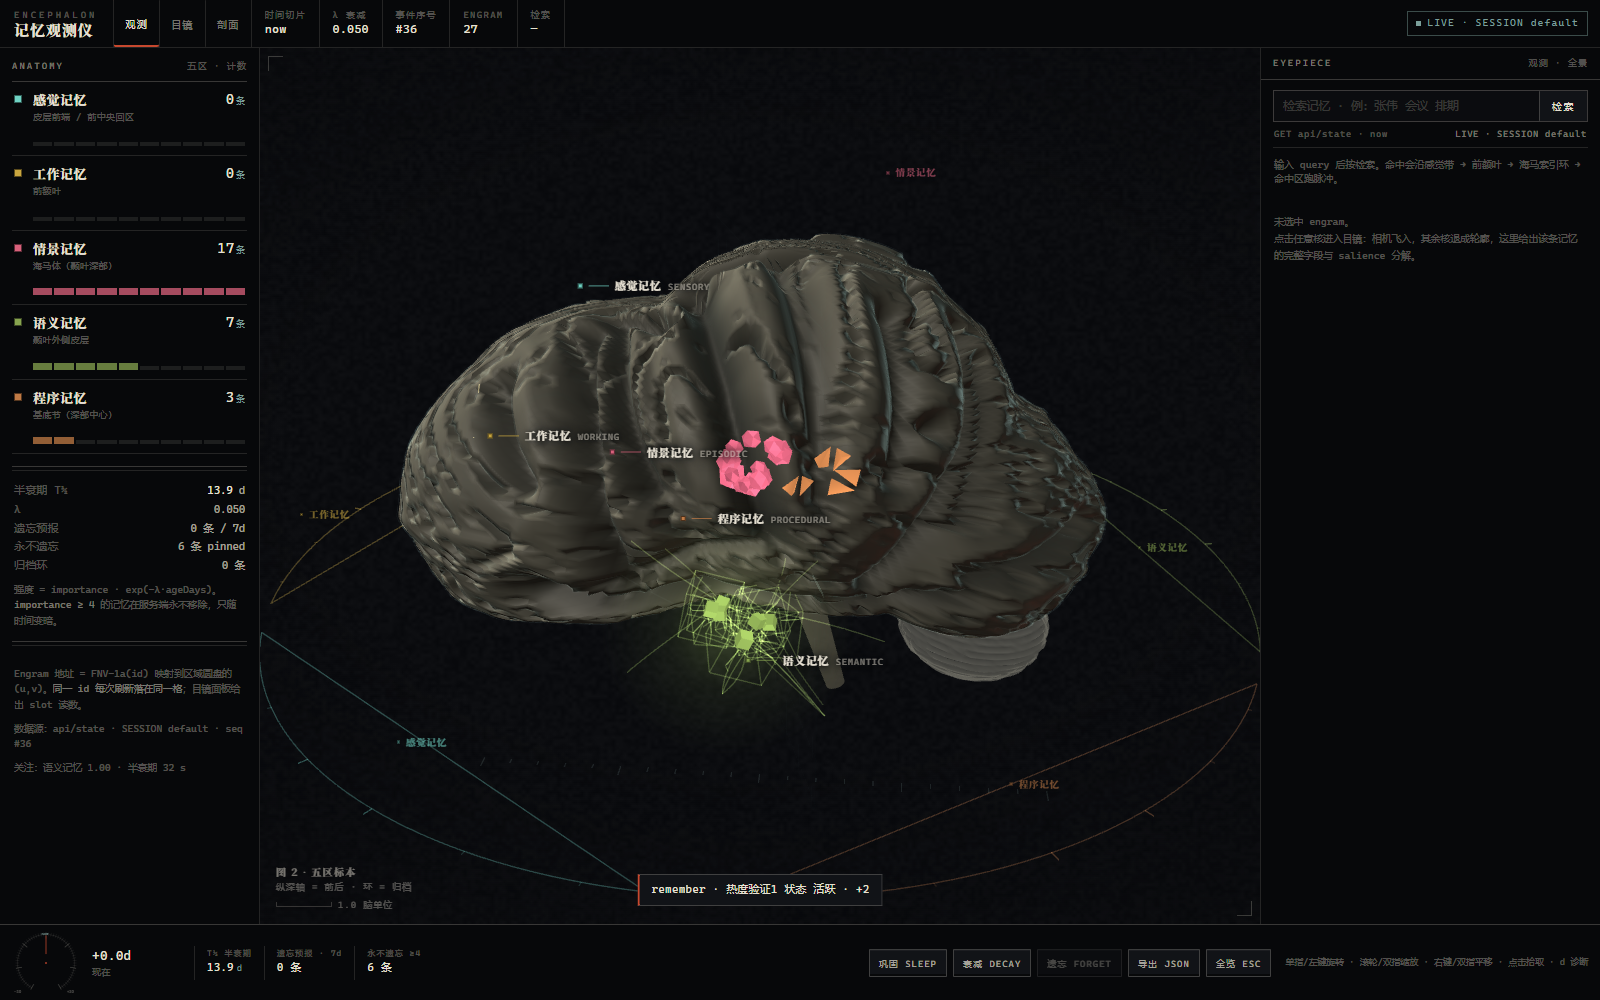
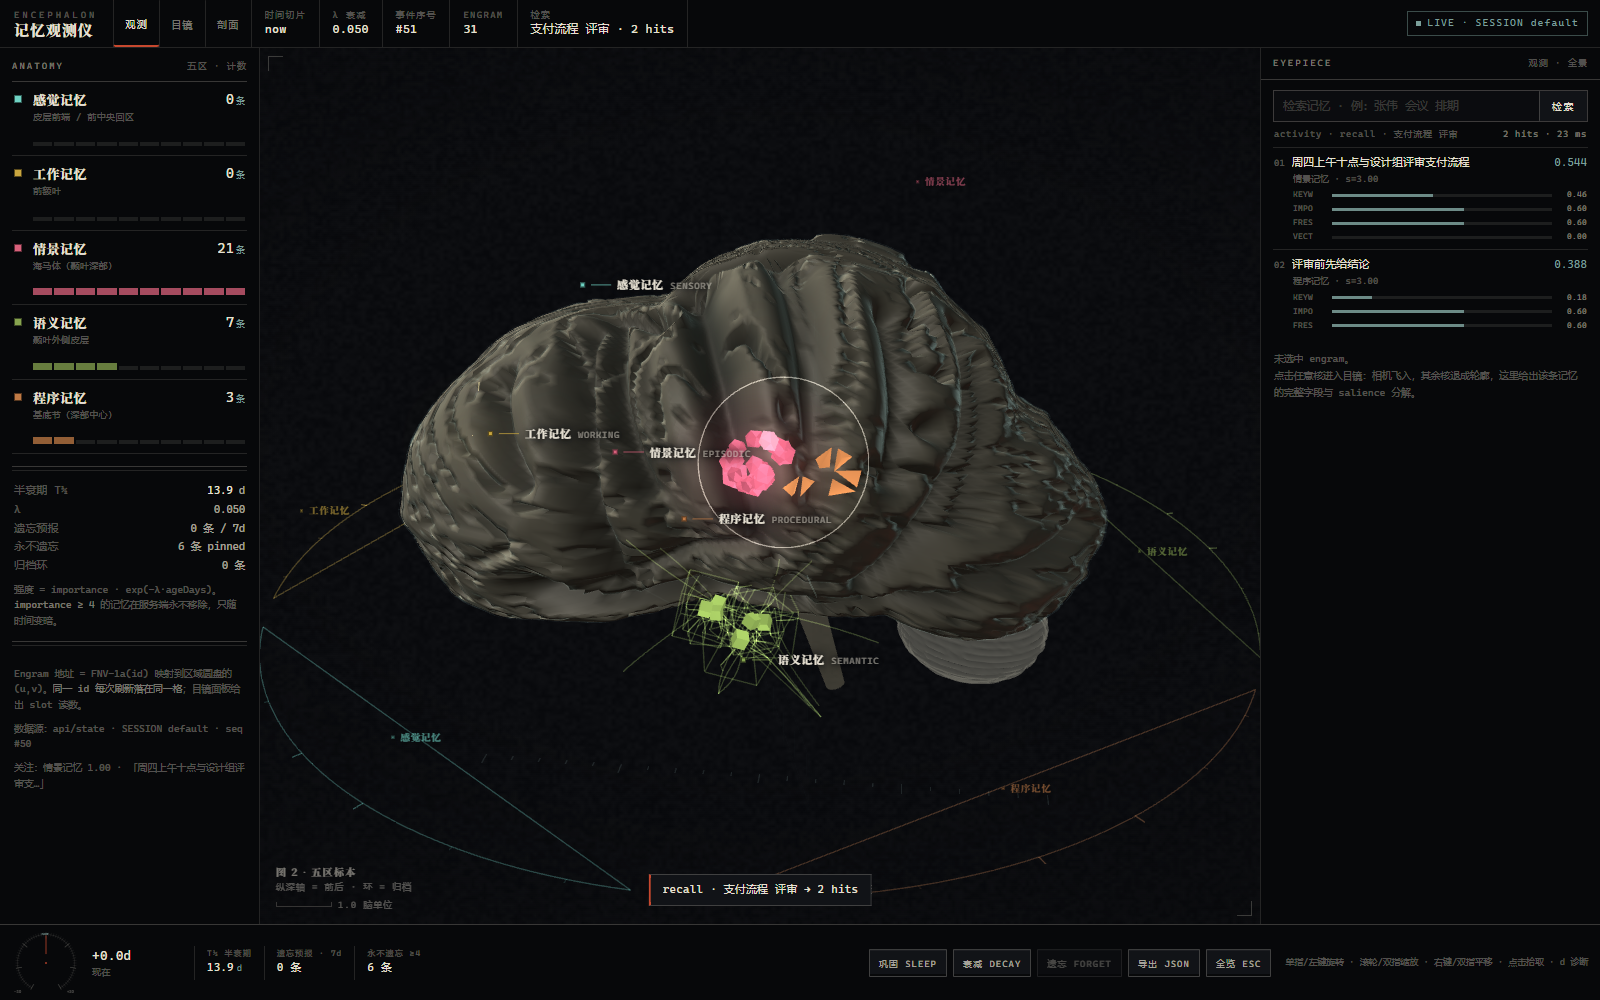
feat(3d): 层内热度（热度落到单条 engram，亮的是那一簇）

diff --git a/dist/deepseek-brain-3d.html b/dist/deepseek-brain-3d.html
@@ -1862,7 +1862,8 @@ globalThis.THREE=Object.freeze({ACESFilmicToneMapping:nt,AddEquation:M,AddOperat
     N.mesh.setMatrixAt(rec.inst, _m4);
     var c = rec.tintColor;
     N.tint.setXYZ(rec.inst, c.r, c.g, c.b);
-    var heatK = 1 + 0.55 * (APP.heat && rec.layer in APP.heat ? heatNorm(rec.layer) : 0);
+    var heatK = 1 + 0.30 * (APP.heat && rec.layer in APP.heat ? heatNorm(rec.layer) : 0) +
+      0.85 * heatKeyNorm(rec.id);
     N.glow.setX(rec.inst, clamp((0.08 + 0.98 * rec.salience) * heatK, 0, 1.6));
     N.hi.setX(rec.inst, hi == null ? (APP.selected === rec.id ? 0.85 : 0) : hi);
     N.dim.setX(rec.inst, dim == null ? ((APP.selected && APP.selected !== rec.id) ? 1 : 0) : dim);
@@ -3320,6 +3321,36 @@ globalThis.THREE=Object.freeze({ACESFilmicToneMapping:nt,AddEquation:M,AddOperat
     return out;
   })();
 
+  /* 层内热度：热度落到具体 engram 上，亮的是一簇而不是整层。 */
+  APP.heatK = {};
+  var heatKMax = 0.001;
+  function heatAddKey(key, amount) {
+    if (!key) return;
+    APP.heatK[key] = clamp((APP.heatK[key] || 0) + amount, 0, 4);
+  }
+  function heatKeyNorm(key) {
+    if (!key) return 0;
+    return clamp((APP.heatK[key] || 0) / heatKMax, 0, 1);
+  }
+  function heatHotKey() {
+    var best = null, bv = 0;
+    Object.keys(APP.heatK).forEach(function (k) {
+      if (APP.heatK[k] > bv) { bv = APP.heatK[k]; best = k; }
+    });
+    return best;
+  }
+  function heatSpreadToText(topic) {
+    if (!topic) return;
+    var needle = String(topic).trim();
+    if (needle.length < 2) return;
+    var touched = 0;
+    allEngrams(APP.model).forEach(function (rec) {
+      if (touched >= 6) return;
+      var blob = (rec.title || '') + ' ' + (rec.sub || '') + ' ' + (rec.detail || '');
+      if (blob.indexOf(needle) >= 0) { heatAddKey(rec.id, 0.42); touched++; }
+    });
+  }
+
   var heatNote = null;
   function renderHeatNote() {
     if (!heatNote) {
@@ -3330,13 +3361,26 @@ globalThis.THREE=Object.freeze({ACESFilmicToneMapping:nt,AddEquation:M,AddOperat
       if (host && host.parentNode) host.parentNode.appendChild(heatNote);
     }
     var best = LAYERS.slice().sort(function (a, b) { return APP.heat[b] - APP.heat[a]; })[0];
-    heatNote.textContent = APP.heat[best] > 0.08
-      ? ('关注：' + REGION[best].label + ' ' + heatNorm(best).toFixed(2) + ' · 半衰期 32 s')
-      : '关注：静默，热度已归零。';
+    if (!(APP.heat[best] > 0.08)) {
+      heatNote.textContent = '关注：静默，热度已归零。';
+      return;
+    }
+    var hotId = heatHotKey();
+    var hot = hotId && APP.model && APP.model.byId ? APP.model.byId[hotId] : null;
+    heatNote.textContent = '关注：' + REGION[best].label + ' ' + heatNorm(best).toFixed(2) +
+      (hot ? ' · 「' + truncate(hot.title || '', 14) + '」' : '');
   }
 
   function updateHeat(dt) {
     heatDecay(dt);
+    var kk = Math.pow(0.5, (dt * 1000) / HEAT_HALF_MS);
+    var mk = 0.001;
+    Object.keys(APP.heatK).forEach(function (key) {
+      var v = APP.heatK[key] * kk;
+      if (v < 0.02) delete APP.heatK[key];
+      else { APP.heatK[key] = v; if (v > mk) mk = v; }
+    });
+    heatKMax = mk;
     var m = heatMax();
     LAYERS.forEach(function (key) {
       var w = heatNorm(key);
@@ -3359,15 +3403,15 @@ globalThis.THREE=Object.freeze({ACESFilmicToneMapping:nt,AddEquation:M,AddOperat
     var prefix = demo ? '演示 · ' : '';
     var kind = ev.kind;
     /* 事件 → 热度：写入抬自己那层，检索抬命中项所在层，睡眠是一次全局收敛 */
-    if (kind === 'observe') heatAdd('sensory', 0.6), heatAdd('working', 1.0);
-    else if (kind === 'remember') heatAdd(ev.layer || 'episodic', 1.6);
+    if (kind === 'observe') { heatAdd('sensory', 0.6); heatAdd('working', 1.0); heatSpreadToText(ev.topic || ev.text); }
+    else if (kind === 'remember') { heatAdd(ev.layer || 'episodic', 1.6); heatAddKey(ev.id, 1.6); }
     else if (kind === 'recall') {
-      (ev.hits || []).forEach(function (h) { heatAdd(h.layer, 1.1); });
+      (ev.hits || []).forEach(function (h) { heatAdd(h.layer, 1.1); heatAddKey(h.id, 1.1); });
       heatAdd('working', 0.5);
-    } else if (kind === 'edit') heatAdd(ev.layer || 'episodic', 0.9);
-    else if (kind === 'correct') heatAdd('semantic', 1.2);
-    else if (kind === 'forget' || kind === 'prune') heatAdd(ev.layer || 'semantic', -0.5);
-    else if (kind === 'restore' || kind === 'archive') heatAdd(ev.layer || 'episodic', 0.7);
+    } else if (kind === 'edit') { heatAdd(ev.layer || 'episodic', 0.9); heatAddKey(ev.id, 0.9); }
+    else if (kind === 'correct') { heatAdd('semantic', 1.2); heatAddKey(ev.id, 1.2); heatAddKey(ev.replacedBy, 1.0); }
+    else if (kind === 'forget' || kind === 'prune') { heatAdd(ev.layer || 'semantic', -0.5); heatAddKey(ev.id, -0.5); }
+    else if (kind === 'restore' || kind === 'archive') { heatAdd(ev.layer || 'episodic', 0.7); heatAddKey(ev.id, 0.7); }
     else if (kind === 'consolidate' || kind === 'sleep') {
       LAYERS.forEach(function (k) { APP.heat[k] *= 0.62; });
     }

diff --git a/web/brain-3d.html b/web/brain-3d.html
@@ -1850,7 +1850,8 @@
     N.mesh.setMatrixAt(rec.inst, _m4);
     var c = rec.tintColor;
     N.tint.setXYZ(rec.inst, c.r, c.g, c.b);
-    var heatK = 1 + 0.55 * (APP.heat && rec.layer in APP.heat ? heatNorm(rec.layer) : 0);
+    var heatK = 1 + 0.30 * (APP.heat && rec.layer in APP.heat ? heatNorm(rec.layer) : 0) +
+      0.85 * heatKeyNorm(rec.id);
     N.glow.setX(rec.inst, clamp((0.08 + 0.98 * rec.salience) * heatK, 0, 1.6));
     N.hi.setX(rec.inst, hi == null ? (APP.selected === rec.id ? 0.85 : 0) : hi);
     N.dim.setX(rec.inst, dim == null ? ((APP.selected && APP.selected !== rec.id) ? 1 : 0) : dim);
@@ -3308,6 +3309,36 @@
     return out;
   })();
 
+  /* 层内热度：热度落到具体 engram 上，亮的是一簇而不是整层。 */
+  APP.heatK = {};
+  var heatKMax = 0.001;
+  function heatAddKey(key, amount) {
+    if (!key) return;
+    APP.heatK[key] = clamp((APP.heatK[key] || 0) + amount, 0, 4);
+  }
+  function heatKeyNorm(key) {
+    if (!key) return 0;
+    return clamp((APP.heatK[key] || 0) / heatKMax, 0, 1);
+  }
+  function heatHotKey() {
+    var best = null, bv = 0;
+    Object.keys(APP.heatK).forEach(function (k) {
+      if (APP.heatK[k] > bv) { bv = APP.heatK[k]; best = k; }
+    });
+    return best;
+  }
+  function heatSpreadToText(topic) {
+    if (!topic) return;
+    var needle = String(topic).trim();
+    if (needle.length < 2) return;
+    var touched = 0;
+    allEngrams(APP.model).forEach(function (rec) {
+      if (touched >= 6) return;
+      var blob = (rec.title || '') + ' ' + (rec.sub || '') + ' ' + (rec.detail || '');
+      if (blob.indexOf(needle) >= 0) { heatAddKey(rec.id, 0.42); touched++; }
+    });
+  }
+
   var heatNote = null;
   function renderHeatNote() {
     if (!heatNote) {
@@ -3318,13 +3349,26 @@
       if (host && host.parentNode) host.parentNode.appendChild(heatNote);
     }
     var best = LAYERS.slice().sort(function (a, b) { return APP.heat[b] - APP.heat[a]; })[0];
-    heatNote.textContent = APP.heat[best] > 0.08
-      ? ('关注：' + REGION[best].label + ' ' + heatNorm(best).toFixed(2) + ' · 半衰期 32 s')
-      : '关注：静默，热度已归零。';
+    if (!(APP.heat[best] > 0.08)) {
+      heatNote.textContent = '关注：静默，热度已归零。';
+      return;
+    }
+    var hotId = heatHotKey();
+    var hot = hotId && APP.model && APP.model.byId ? APP.model.byId[hotId] : null;
+    heatNote.textContent = '关注：' + REGION[best].label + ' ' + heatNorm(best).toFixed(2) +
+      (hot ? ' · 「' + truncate(hot.title || '', 14) + '」' : '');
   }
 
   function updateHeat(dt) {
     heatDecay(dt);
+    var kk = Math.pow(0.5, (dt * 1000) / HEAT_HALF_MS);
+    var mk = 0.001;
+    Object.keys(APP.heatK).forEach(function (key) {
+      var v = APP.heatK[key] * kk;
+      if (v < 0.02) delete APP.heatK[key];
+      else { APP.heatK[key] = v; if (v > mk) mk = v; }
+    });
+    heatKMax = mk;
     var m = heatMax();
     LAYERS.forEach(function (key) {
       var w = heatNorm(key);
@@ -3347,15 +3391,15 @@
     var prefix = demo ? '演示 · ' : '';
     var kind = ev.kind;
     /* 事件 → 热度：写入抬自己那层，检索抬命中项所在层，睡眠是一次全局收敛 */
-    if (kind === 'observe') heatAdd('sensory', 0.6), heatAdd('working', 1.0);
-    else if (kind === 'remember') heatAdd(ev.layer || 'episodic', 1.6);
+    if (kind === 'observe') { heatAdd('sensory', 0.6); heatAdd('working', 1.0); heatSpreadToText(ev.topic || ev.text); }
+    else if (kind === 'remember') { heatAdd(ev.layer || 'episodic', 1.6); heatAddKey(ev.id, 1.6); }
     else if (kind === 'recall') {
-      (ev.hits || []).forEach(function (h) { heatAdd(h.layer, 1.1); });
+      (ev.hits || []).forEach(function (h) { heatAdd(h.layer, 1.1); heatAddKey(h.id, 1.1); });
       heatAdd('working', 0.5);
-    } else if (kind === 'edit') heatAdd(ev.layer || 'episodic', 0.9);
-    else if (kind === 'correct') heatAdd('semantic', 1.2);
-    else if (kind === 'forget' || kind === 'prune') heatAdd(ev.layer || 'semantic', -0.5);
-    else if (kind === 'restore' || kind === 'archive') heatAdd(ev.layer || 'episodic', 0.7);
+    } else if (kind === 'edit') { heatAdd(ev.layer || 'episodic', 0.9); heatAddKey(ev.id, 0.9); }
+    else if (kind === 'correct') { heatAdd('semantic', 1.2); heatAddKey(ev.id, 1.2); heatAddKey(ev.replacedBy, 1.0); }
+    else if (kind === 'forget' || kind === 'prune') { heatAdd(ev.layer || 'semantic', -0.5); heatAddKey(ev.id, -0.5); }
+    else if (kind === 'restore' || kind === 'archive') { heatAdd(ev.layer || 'episodic', 0.7); heatAddKey(ev.id, 0.7); }
     else if (kind === 'consolidate' || kind === 'sleep') {
       LAYERS.forEach(function (k) { APP.heat[k] *= 0.62; });
     }

diff --git a/README.md b/README.md
@@ -333,7 +333,7 @@ node tools/build-3d.mjs      # 生成 dist/deepseek-brain-3d.html
 | 顶栏 `事件序号`、观测条脉冲 | `GET /api/activity?since=` 的增量：Agent 每次检索/写入/遗忘都在标本上打出一次脉冲 |
 | 检索台 | 真的 `POST /api/recall`，命中项按 `score` 亮起并连出白质纤维束 |
 | 检索时的「聚光」 | `setFocus(hits)` 记下命中 id 与命中簇质心：2.6 s 内命中 engram 朝质心收 `0.50·sin(πt/T)`、非命中向外让开 `0.22` 并压暗，同时一圈 `LineLoop` 朝向相机亮灭。**只改显示位移，`slot u/v` 不动**——目镜里读到的永远是确定性寻址的槽位坐标 |
-| 左栏底部的「关注：…」与层间光晕 | 活动流折算出的**话题热度**：写入抬自己那层 `+1.6`、检索抬命中层 `+1.1`、修正抬语义 `+1.2`、睡眠乘 `0.62`，全部按 32 s 半衰期衰减；热度决定该层 engram 的额外亮度与解剖锚点处一片加性光晕，所以闲置时标本上仍有缓慢流动的注意力 |
+| 左栏底部的「关注：…」与层间光晕 | 活动流折算出的**话题热度**：写入抬自己那层 `+1.6` 并同时抬那条 engram、检索抬命中层 `+1.1` 与每个命中 `+1.1`、修正抬语义 `+1.2`、睡眠乘 `0.62`，全部按 32 s 半衰期衰减。热度分两级——层热度决定解剖锚点处的加性光晕，**单条热度决定那一枚 engram 的亮度**（`× (1 + 0.30·层热度 + 0.85·单条热度)`），所以最亮的是「最近被想起的那一条」，不是整层一起亮；读数里会直接点出最热那条的标题 |
 | 「睡眠 / 衰减 / 遗忘」压印按钮 | 真的 `POST /api/sleep`、`/api/decay`、`/api/forget`，迁移与归档在标本上留下路径与残影 |
 | 归档环里的往返 | 底板外环按五层切成五段扇区（每段用该层染料，扇区中点常显「感觉 / 工作 / 情景 / 语义 / 程序」小字——标签方向跟着相机转，但半径固定在标本外圈，所以任何方位角下五个都在、互不遮挡），`forget` / `decay` 让 engram 缩着飞向**自己那一段**；`restore` 沿同一路径长回来，`undo` 再反向飞出去——落点由 `archiveAngle(layer, slot.u)` 决定，不是随机角度 |
 

diff --git a/docs/DESIGN-v2.md b/docs/DESIGN-v2.md
@@ -149,6 +149,9 @@
 聚光是瞬态，热度是余温。每条活动事件按语义折算成五层的「被关注度」（写入 `+1.6`、检索命中 `+1.1`、修正 `+1.2`、睡眠 `×0.62`），统一按 **32 s 半衰期**衰减；热度既抬该层 engram 的亮度，也在该层解剖锚点处点亮一片加性光晕。于是「刚刚在聊什么」不需要读日志，看标本哪一块发亮就知道。
 
 实测衰减：`episodic 3.87 → 1.81`（35 s，比值 0.468，与 32 s 半衰期的理论值 0.47 一致）。
+
+热度分两级落地：**层热度**决定解剖锚点处那片加性光晕，**单条热度**（`APP.heatK[id]`）决定具体那一枚 engram 的亮度。写入、检索命中、修正都同时记到 id 上；`observe` 还会按话题文本在 engram 的标题/摘要里做一次子串匹配，把余温摊给相关的那几条（最多 6 条）。于是「亮的是那一簇」而不是整层——实测同一查询下 `支付流程` 那条 2.60、`夜跑` 那条 1.52。
+
 ## 7. 验收清单（自我评审用）
 
 - [ ] 时间转盘拖动后，粒子大小/亮度与「遗忘预报」同步变化，且数值与服务端 `?at=` 一致
